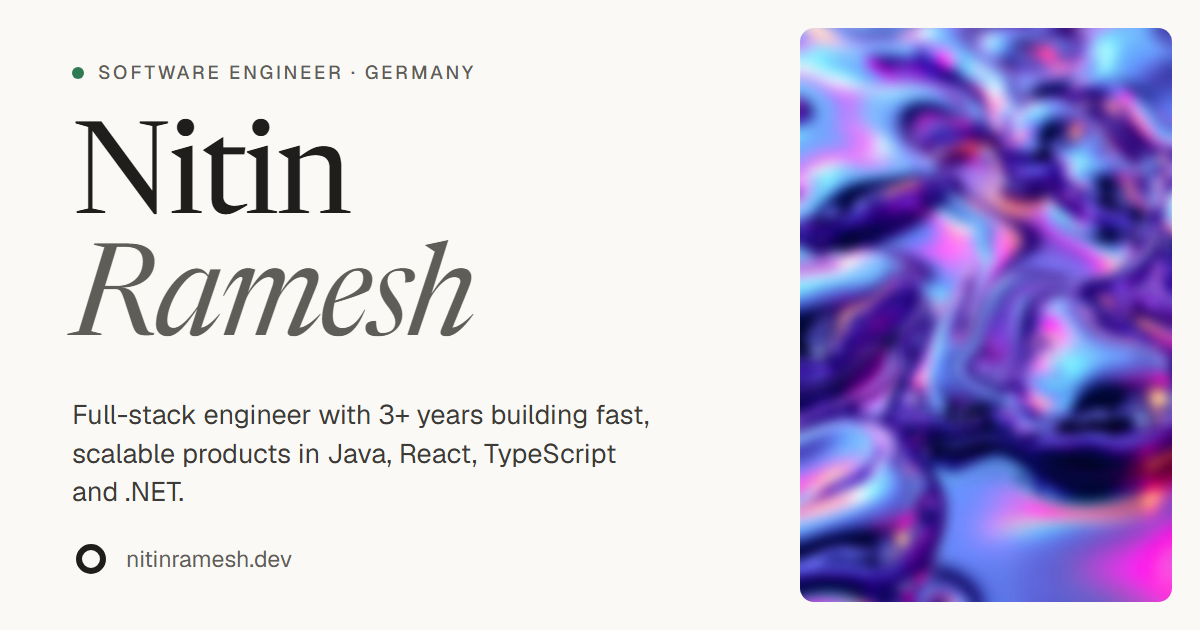
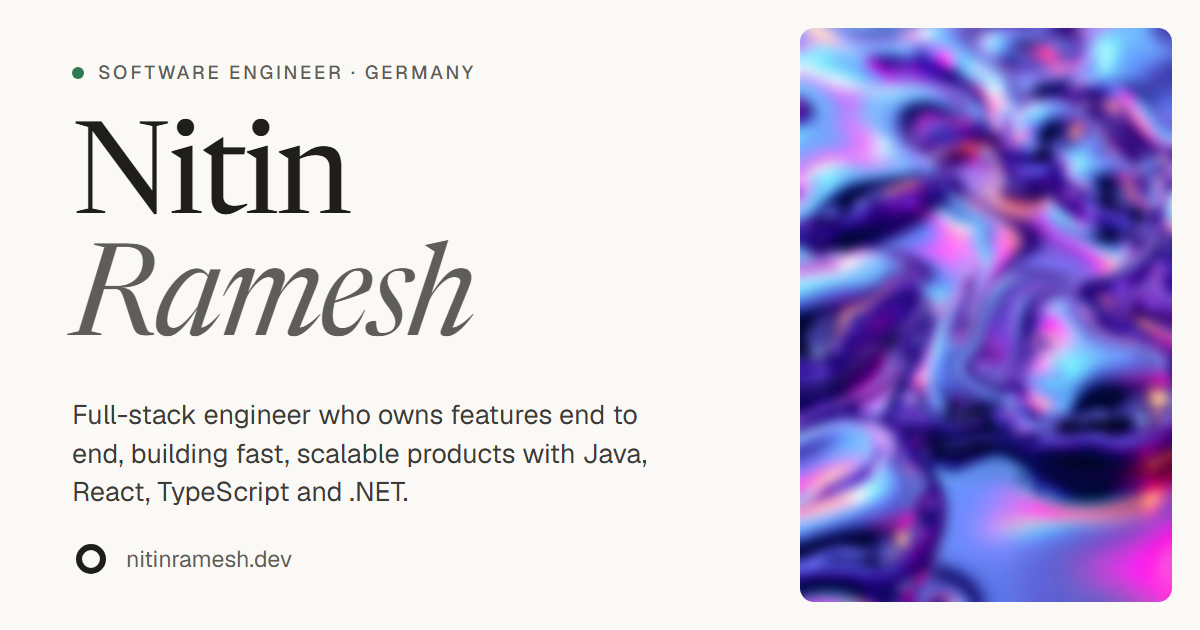
Reframe subtitle around ownership instead of years
- Hero subtitle: owns features end to end, from architecture to release
- Meta/OG/JSON-LD description and share image text updated to match

Changed region(s): [[0.0617, 0.6333, 0.555, 0.8143]]

diff --git a/content/profile.md b/content/profile.md
@@ -16,7 +16,7 @@ topFour:
   - React
   - TypeScript
   - C#/.NET
-description: Software Engineer in Germany with 3+ years building fast, scalable full-stack products in Java (Spring Boot), React, TypeScript and .NET.
+description: Software Engineer in Germany who owns features end to end, building fast, scalable full-stack products with Java (Spring Boot), React, TypeScript and .NET.
 languages:
   - name: English
     level: Native

diff --git a/pages/index.md b/pages/index.md
@@ -3,7 +3,7 @@ layout: home
 title: Nitin Ramesh – Software Engineer
 titleTemplate: false
 
-subtitle: Software Engineer with 3+ years of experience building fast and scalable digital products using
+subtitle: Software Engineer who owns features end to end, from architecture to release, building fast, scalable products with
 whatIDo:
   threeThings:
     - Building
